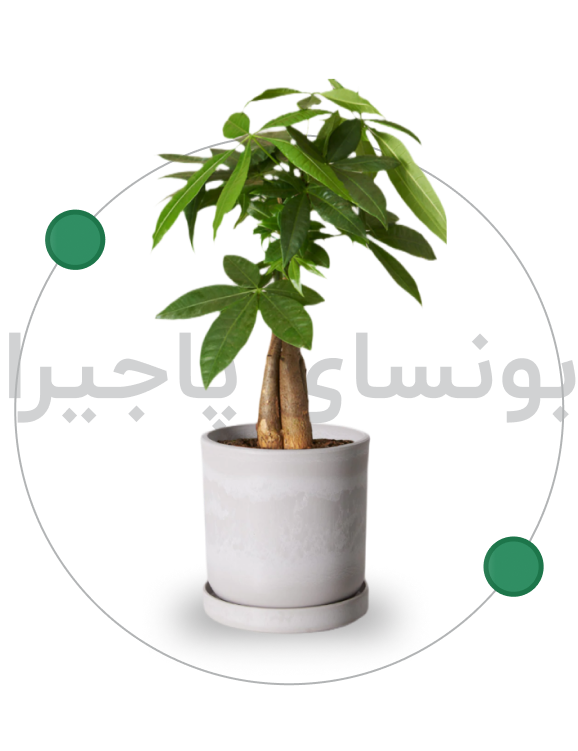
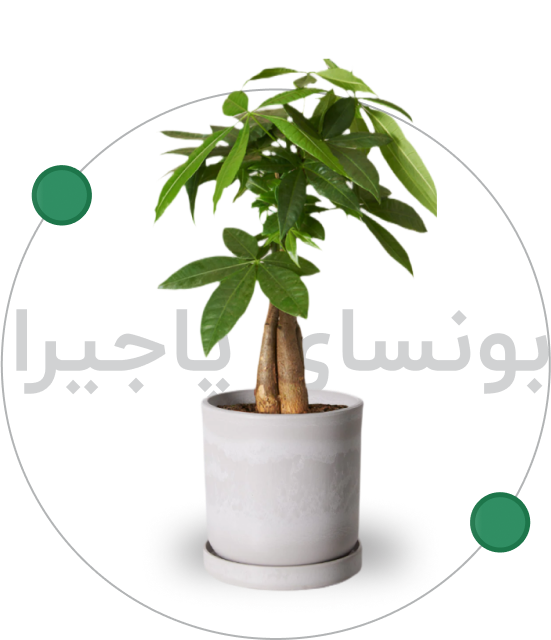
style & responsive the carousel

diff --git a/src/Components/Slider/Slider.jsx b/src/Components/Slider/Slider.jsx
@@ -1,4 +1,3 @@
-import React, { useRef, useState } from "react";
 // Import Swiper React components
 import { Swiper, SwiperSlide } from "swiper/react";
 import Image from "react-bootstrap/Image";
@@ -8,13 +7,13 @@ import "swiper/css";
 import "swiper/css/pagination";
 import "swiper/css/navigation";
 
-// import "./styles.css";
+import "./Slider.css";
 
 // import required modules
 import { Pagination, Navigation, Autoplay } from "swiper";
 import firstImage from "../../data/Pictures/Group 337.png";
-import secondImage from "../../data/Pictures/Group 340.png";
-import thirdImage from "../../data/Pictures/Group 341.jpg";
+import secondImage from "../../data/Pictures/Group 341.jpg";
+import thirdImage from "../../data/Pictures/Group 350.png";
 import "./Slider.css";
 
 const Slider = () => {
@@ -27,33 +26,88 @@ const Slider = () => {
         pagination={{
           clickable: true,
         }}
-        // autoplay={{
-        //   delay: 2500,
-        //   disableOnInteraction: false,
-        // }}
+        autoplay={{
+          delay: 2500,
+          disableOnInteraction: false,
+        }}
         navigation={true}
-        modules={[Pagination, Navigation]}
+        modules={[Pagination, Navigation, Autoplay]}
         className="mySwiper"
       >
         <SwiperSlide>
-          <section className="sliderImage">
-            <Image src={firstImage} alt="" fluid className="w-75" />
+          <section className="d-lg-flex d-block">
+            <section className="sliderImage">
+              <Image src={firstImage} alt="" fluid className="w-75" />
+            </section>
+            <section
+              className="SliderDetail ps-xxl-0 d-lg-flex flex-column justify-content-center text-start d-none"
+              dir="rtl"
+            >
+              <h2 className="mb-3">بونسای پاچیرا</h2>
+              <p className="description">
+                لورم ایپسوم متن ساختگی با تولید سادگی نامفهوم از صنعت چاپ، و با
+                استفاده از طراحان گرافیک است، چاپگرها و متون بلکه روزنامه و مجله
+                در ستون و سطرآنچنان که لازم است، و برای شرایط فعلی تکنولوژی مورد
+                نیاز، و کاربردهای متنوع با هدف بهبود ابزارهای کاربردی می باشد،
+                کتابهای زیادی در شصت و سه درصد گذشته حال و آینده، شناخت فراوان
+                جامعه و متخصصان را می طلبد .
+              </p>
+              <p className="price">989/000 هزارتومان</p>
+              <button className="CTAButton d-flex flex-row justify-content-center align-items-center">
+                <p className="m-0">افزودن به سبد خرید</p>
+              </button>
+            </section>
           </section>
-          {/* <p>بونسای پاچیرا</p> */}
-          <section className="sliderDescription"></section>
         </SwiperSlide>
         <SwiperSlide>
-          <section className="sliderImage">
-            <Image src={secondImage} alt="" fluid className="w-75" />
+          <section className="d-lg-flex d-block">
+            <section className="sliderImage">
+              <Image src={secondImage} alt="" fluid className="w-75" />
+            </section>
+            <section
+              className="SliderDetail ps-xxl-0 d-lg-flex flex-column justify-content-center text-start d-none"
+              dir="rtl"
+            >
+              <h2 className="mb-3">سانسوریا کراواتی</h2>
+              <p className="description">
+                لورم ایپسوم متن ساختگی با تولید سادگی نامفهوم از صنعت چاپ، و با
+                استفاده از طراحان گرافیک است، چاپگرها و متون بلکه روزنامه و مجله
+                در ستون و سطرآنچنان که لازم است، و برای شرایط فعلی تکنولوژی مورد
+                نیاز، و کاربردهای متنوع با هدف بهبود ابزارهای کاربردی می باشد،
+                کتابهای زیادی در شصت و سه درصد گذشته حال و آینده، شناخت فراوان
+                جامعه و متخصصان را می طلبد .
+              </p>
+              <p className="price">369/000 هزارتومان</p>
+              <button className="CTAButton d-flex flex-row justify-content-center align-items-center">
+                <p className="m-0">افزودن به سبد خرید</p>
+              </button>
+            </section>
           </section>
-          {/* <p>فیکوس آفریقایی</p> */}
         </SwiperSlide>
         <SwiperSlide>
-          {" "}
-          <section className="sliderImage">
-            <Image src={thirdImage} alt="" fluid className="w-75" />
+          <section className="d-lg-flex d-block">
+            <section className="sliderImage">
+              <Image src={thirdImage} alt="" fluid className="w-75" />
+            </section>
+            <section
+              className="SliderDetail ps-xxl-0 d-lg-flex flex-column justify-content-center text-start d-none"
+              dir="rtl"
+            >
+              <h2 className="mb-3">انجیری تخت</h2>
+              <p className="description">
+                لورم ایپسوم متن ساختگی با تولید سادگی نامفهوم از صنعت چاپ، و با
+                استفاده از طراحان گرافیک است، چاپگرها و متون بلکه روزنامه و مجله
+                در ستون و سطرآنچنان که لازم است، و برای شرایط فعلی تکنولوژی مورد
+                نیاز، و کاربردهای متنوع با هدف بهبود ابزارهای کاربردی می باشد،
+                کتابهای زیادی در شصت و سه درصد گذشته حال و آینده، شناخت فراوان
+                جامعه و متخصصان را می طلبد .
+              </p>
+              <p className="price">399/000 هزارتومان</p>
+              <button className="CTAButton d-flex flex-row justify-content-center align-items-center">
+                <p className="m-0">افزودن به سبد خرید</p>
+              </button>
+            </section>
           </section>
-          {/* <p>فیکوس آفریقایی</p> */}
         </SwiperSlide>
       </Swiper>
     </>

diff --git a/src/Components/Slider/Slider.css b/src/Components/Slider/Slider.css
@@ -11,47 +11,13 @@
     justify-content: center;
     flex-direction: column;
     background: var(--mainBackground);
-}
-
-.swiper-slide p {
-    font-style: normal;
-    font-weight: 700;
-    font-size: 36px;
-    line-height: 97px;
-    position: absolute;
-    top: 6.5rem;
-    width: 100%;
-    justify-content: center;
-    /* identical to box height */
-
-    display: flex;
-    align-items: center;
-    text-align: right;
-
-    /* Main Grey Font */
-
-    color: rgba(178, 180, 181, 0.6);
+    padding: 2rem 0;
 }
 
 .sliderImage {
-    width: 100%;
     display: flex;
     justify-content: center;
     z-index: 10;
-}
-
-.sliderDescription {
-    /* height: 200px;
-    background: rgba(255, 255, 255, 0.2); */
-    /* From https://css.glass */
-    /* background: rgba(255, 255, 255, 0.17); */
-    /* border-radius: 16px; */
-    /* box-shadow: 0 4px 30px rgba(0, 0, 0, 0.1);
-    backdrop-filter: blur(5.3px);
-    -webkit-backdrop-filter: blur(5.3px);
-        position: relative;
-    bottom: 47px;
-    z-index: 20; */
 }
 
 .swiper-button-next {
@@ -59,7 +25,6 @@
     background-repeat: no-repeat;
     background-size: 100% auto;
     background-position: center;
-    top: 9rem;
 }
 
 .swiper-button-next::after {
@@ -71,7 +36,6 @@
     background-repeat: no-repeat;
     background-size: 100% auto;
     background-position: center;
-    top: 9rem;
 }
 
 .swiper-button-prev::after {
@@ -79,10 +43,71 @@
 }
 
 .swiper-pagination .swiper-pagination-bullet {
-    border: 2px solid rgba(2, 83, 39, 0.8);
+    border: 1px solid rgba(2, 83, 39, 0.8);
     background: rgba(255, 255, 255, 0.1);
+    transition: all .3s ease-in-out;
 }
 
 .swiper-pagination-bullet.swiper-pagination-bullet-active {
     background: rgba(2, 83, 39, 0.42);
+    border: none;
+}
+
+@media only screen and (min-width: 768px) {
+    .sliderImage img {
+        width: 50% !important;
+    }
+}
+
+@media only screen and (min-width: 992px) {
+    .swiper {
+        height: 500px;
+    }
+
+    .sliderImage img {
+        width: 70% !important;
+    }
+
+    .SliderDetail {
+        padding-right: 24px;
+    }
+}
+
+
+.SliderDetail {
+    width: 55%;
+}
+
+
+.SliderDetail h2 {
+    font-size: 2rem;
+    font-style: normal;
+    font-weight: 500;
+    color: var(--mainWhite);
+}
+
+.SliderDetail .description {
+    font-style: normal;
+    font-weight: 400;
+    font-size: 14px;
+    line-height: 30px;
+    color: #DCDCDC;
+}
+
+.SliderDetail .price {
+    font-style: normal;
+    font-weight: 500;
+    font-size: 20px;
+    line-height: 55px;
+    color: var(--mainWhite);
+}
+
+.SliderDetail button {
+    width: 240px;
+    height: 36px;
+    border: none;
+    background: var(--CTAButtonColor);
+    color: var(--mainWhite);
+    box-shadow: 0px 5px 5px rgb(0 0 0 / 10%);
+    border-radius: 4px;
 }

diff --git a/src/Components/ProductDetail/ProductDetail.jsx b/src/Components/ProductDetail/ProductDetail.jsx
@@ -1,0 +1,30 @@
+import React, { useState } from "react";
+import Button from "react-bootstrap/Button";
+import Offcanvas from "react-bootstrap/Offcanvas";
+
+const ProductDetail = () => {
+  const [show, setShow] = useState(false);
+
+  const handleClose = () => setShow(false);
+  const handleShow = () => setShow(true);
+
+  return (
+    <>
+      <Button variant="primary" onClick={handleShow}>
+        Launch
+      </Button>
+
+      <Offcanvas show={show} onHide={handleClose}>
+        <Offcanvas.Header closeButton dir="rtl">
+          <Offcanvas.Title>Offcanvas</Offcanvas.Title>
+        </Offcanvas.Header>
+        <Offcanvas.Body>
+          Some text as placeholder. In real life you can have the elements you
+          have chosen. Like, text, images, lists, etc.
+        </Offcanvas.Body>
+      </Offcanvas>
+    </>
+  );
+};
+
+export default ProductDetail;

diff --git a/src/App.js b/src/App.js
@@ -8,6 +8,7 @@ import CartPage from "./Pages/Cart/CartPage";
 import Category from "./Pages/Category/Category";
 import LoginPage from "./Pages/Login/LoginPage";
 import SignUpPage from "./Pages/SignUp/SignUpPage";
+import ProductDetail from "./Components/ProductDetail/ProductDetail";
 
 function App() {
   return (
@@ -19,6 +20,7 @@ function App() {
           <Route path="/cart" element={<CartPage />} />
           <Route path="/login" element={<LoginPage />} />
           <Route path="/signUp" element={<SignUpPage />} />
+          <Route path="/productDetail/:id" element={<ProductDetail />} />
         </Routes>
       </Layout>
     </BrowserRouter>

diff --git a/src/Pages/Home/HomePage.jsx b/src/Pages/Home/HomePage.jsx
@@ -1,8 +1,10 @@
+import ProductDetail from "../../Components/ProductDetail/ProductDetail";
 import Slider from "../../Components/Slider/Slider";
 const HomePage = () => {
   return (
     <section>
       <Slider />
+      <ProductDetail />
     </section>
   );
 };
